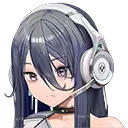
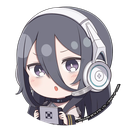
feat: 更新版本号至2.5.7，调整Excel导出中的AEL列位置，更改了插件icon图片

diff --git a/exia-invasion/src/excel.js b/exia-invasion/src/excel.js
@@ -138,19 +138,20 @@ export const saveDictToExcel = async (dict, lang = "en") => {  const t = (key) =
   setVerticalBorder(ws, 1, 8, 3, mediumSide, "left");
     /* ========== 角色信息区 ========== */
   const widthPerChar = 17; // 固定包含攻优突破分列
+  // 将 AEL 列移至人物块最右侧
   const propertyKeys = [
-    "AtkElemLbScore",
     "limit_break","skill1_level","skill2_level","skill_burst_level",
     "item_rare","item_level",null,
     "IncElementDmg","StatAtk","StatAmmoLoad","StatChargeTime","StatChargeDamage",
-    "StatCritical","StatCriticalDamage","StatAccuracyCircle","StatDef"
+    "StatCritical","StatCriticalDamage","StatAccuracyCircle","StatDef",
+    "AtkElemLbScore"
   ];
 
   const propertyLabels = [
-    t("atkElemLbScore"),
     t("limitBreak"), t("skill1"), t("skill2"), t("burst"), t("item"), null, t("t10"),
     t("elementAdvantage"), t("attack"), t("ammo"), t("chargeSpeed"), t("chargeDamage"),
-    t("critical"), t("criticalDamage"), t("hit"), t("defense")
+    t("critical"), t("criticalDamage"), t("hit"), t("defense"),
+    t("atkElemLbScore")
   ];
 
   // 动态索引，避免硬编码
@@ -244,8 +245,8 @@ export const saveDictToExcel = async (dict, lang = "en") => {  const t = (key) =
       // 统一复用公共判定逻辑
       const unowned = isUnowned(charInfo);
       
-      // 填入基础数据（根据是否开启，起始偏移不同）
-      let baseOffset = 1; // 列0为攻优突破分
+      // 填入基础数据（AEL 已移至最右侧，基础从首列开始）
+      let baseOffset = 0;
       // AEL列保持合并但不写占位值；仅在有数据时回填分数
       if (!unowned) {
         ws.getCell(4,colCursor+baseOffset).value = getLimitBreakStr(limit_break);
@@ -266,7 +267,7 @@ export const saveDictToExcel = async (dict, lang = "en") => {  const t = (key) =
         ws.getCell(4,colCursor+i).alignment = { horizontal:"center", vertical:"middle" };
       }
       
-      // 合并LB到T10的纵向单元格 (第4-8行)
+      // 合并基础区纵向单元格 (第4-8行)（不含 AEL）
       for(let i=0;i<=itemLevelIdx;i++){
         ws.mergeCells(4,colCursor+i,8,colCursor+i);
       }
@@ -325,17 +326,23 @@ export const saveDictToExcel = async (dict, lang = "en") => {  const t = (key) =
         });
       }
 
-      // 回填攻优突破分
+      // 回填攻优突破分（AEL）
       if (!unowned) {
         const grade = typeof limit_break === 'object' ? (limit_break.grade || 0) : 0;
         const core  = typeof limit_break === 'object' ? (limit_break.core  || 0) : 0;
         const { StatAtk: atk = 0, IncElementDmg: elem = 0 } = getEquipSumStats(equipments);
         const score = computeAELScore({ grade, core, atk, elem });
-        const scoreCell = ws.getCell(4, colCursor);
+        const aelIdx = propertyKeys.indexOf("AtkElemLbScore");
+        const scoreCell = ws.getCell(4, colCursor + aelIdx);
         scoreCell.value = score;
         scoreCell.numFmt = "0.00";
         scoreCell.alignment = { horizontal:"center", vertical:"middle" };
-      // 按阈值上色（与词条颜色一致）：
+        // 合并 AEL 列（第4-8行）并设置居中
+        ws.mergeCells(4, colCursor + aelIdx, 8, colCursor + aelIdx);
+        ws.getCell(5, colCursor + aelIdx).alignment = { horizontal:"center", vertical:"middle" };
+        ws.getCell(6, colCursor + aelIdx).alignment = { horizontal:"center", vertical:"middle" };
+        ws.getCell(7, colCursor + aelIdx).alignment = { horizontal:"center", vertical:"middle" };
+        // 按阈值上色（与词条颜色一致）：
       // >=3.2 黑底白字；<3.2且>=2.7 蓝；<2.7且>=2.2 黄；>0且<2.2 红
         let aelFill = null;
         let aelFont = null;
@@ -353,7 +360,7 @@ export const saveDictToExcel = async (dict, lang = "en") => {  const t = (key) =
         }
         if (aelFill || aelFont) {
           for (let r = 4; r <= 8; r++) {
-            const mCell = ws.getCell(r, colCursor);
+            const mCell = ws.getCell(r, colCursor + aelIdx);
             if (aelFill) mCell.fill = aelFill;
             if (aelFont) mCell.font = { ...(mCell.font || {}), ...aelFont };
           }
@@ -363,7 +370,11 @@ export const saveDictToExcel = async (dict, lang = "en") => {  const t = (key) =
       // 设置边框
   setOuterBorder(ws,2,colCursor,3,colCursor+widthPerChar-1,mediumSide); // 角色标题区
   setOuterBorder(ws,4,colCursor,8,colCursor+widthPerChar-1,mediumSide); // 数据内容区
-      setVerticalBorder(ws,3,8,colCursor,thinSide,"right");
+      // 将分隔细线移动到 AEL 列左侧
+      {
+        const aelIdx = propertyKeys.indexOf("AtkElemLbScore");
+        setVerticalBorder(ws,3,8,colCursor + aelIdx,thinSide,"left");
+      }
       if (itemIdx >= 0) setVerticalBorder(ws,3,8,colCursor+itemIdx,thinSide,"left");
       if (itemIdx >= 0) setVerticalBorder(ws,3,8,colCursor+itemIdx+1,thinSide,"right");
       if (t10Idx  >= 0) setVerticalBorder(ws,3,8,colCursor+t10Idx,thinSide,"right");
@@ -491,9 +502,14 @@ export const saveDictToExcel = async (dict, lang = "en") => {  const t = (key) =
     ws.getColumn(3).width = 8;
   }
   
-  // 角色列的宽度设置
+  // 角色列的宽度设置（AEL 固定为 6）
+  const aelOffset = propertyKeys.indexOf("AtkElemLbScore");
   for(let col=4; col<cubeStartCol; ++col){
     const offset = (col-4)%widthPerChar;
+    if (offset === aelOffset) {
+      ws.getColumn(col).width = 6;
+      continue;
+    }
     if(lang === "en"){
       ws.getColumn(col).width = offset < statsStartIdx ? 6 : 10;
     } else {
